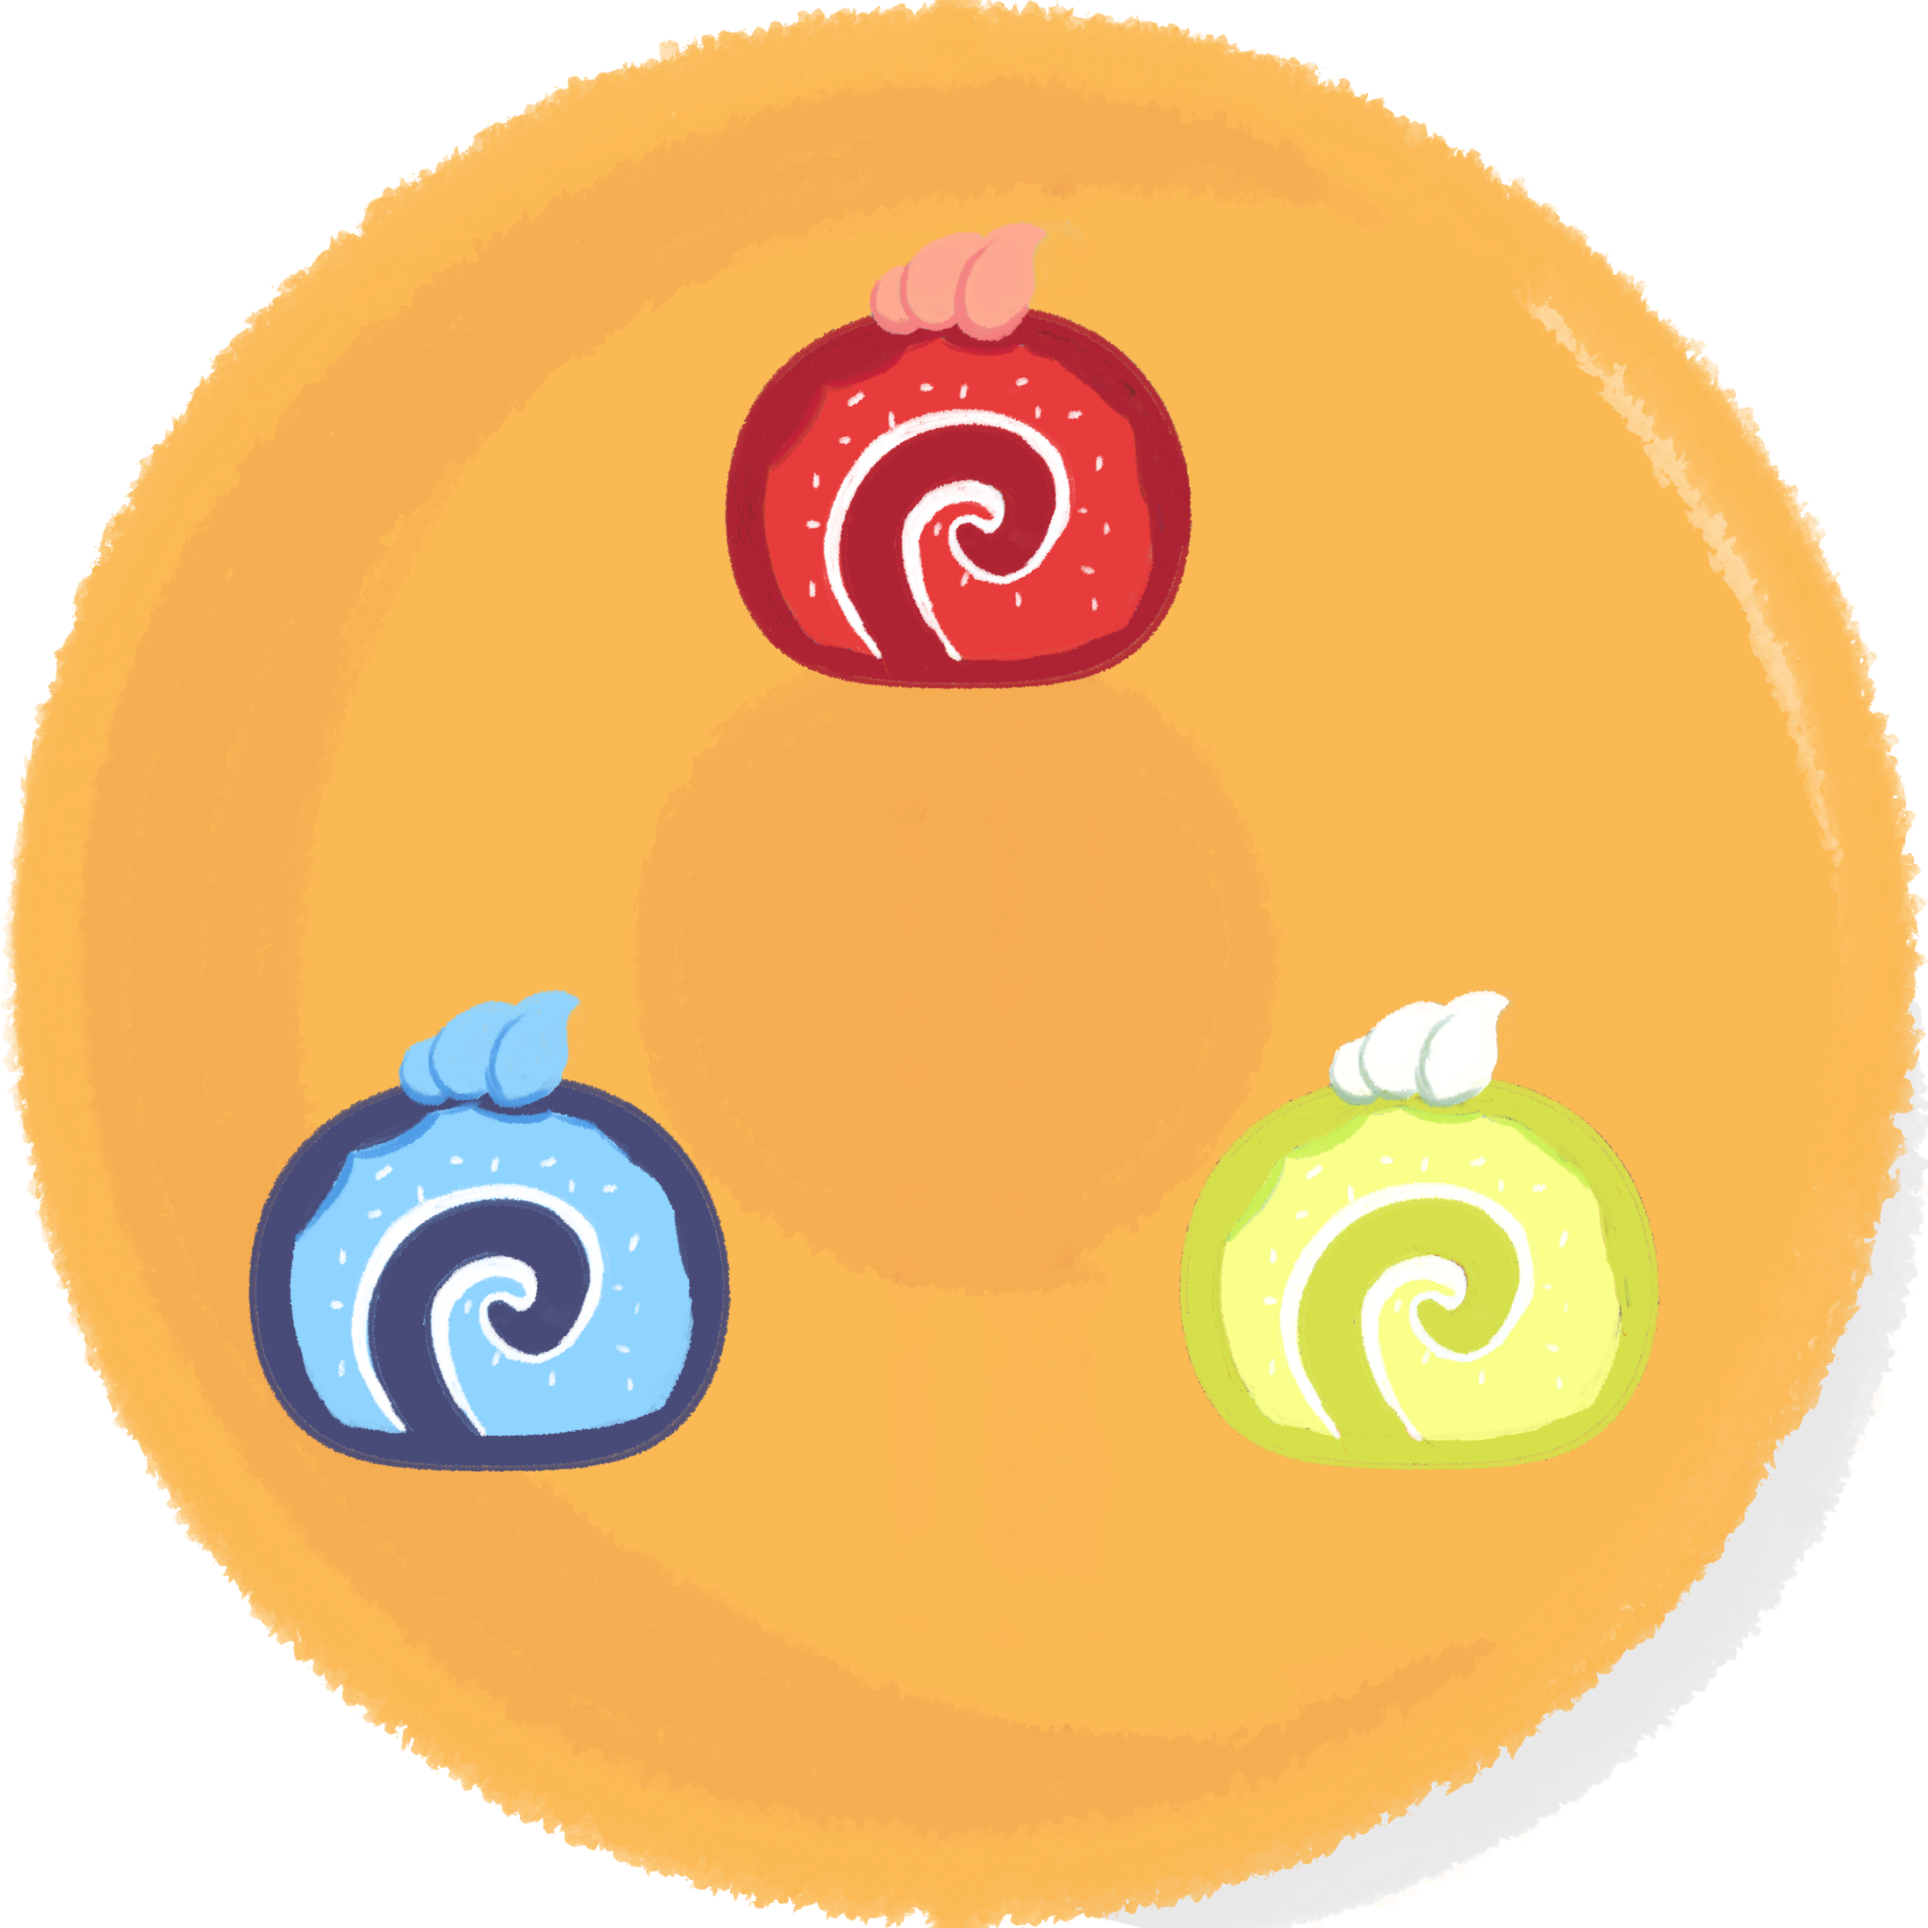
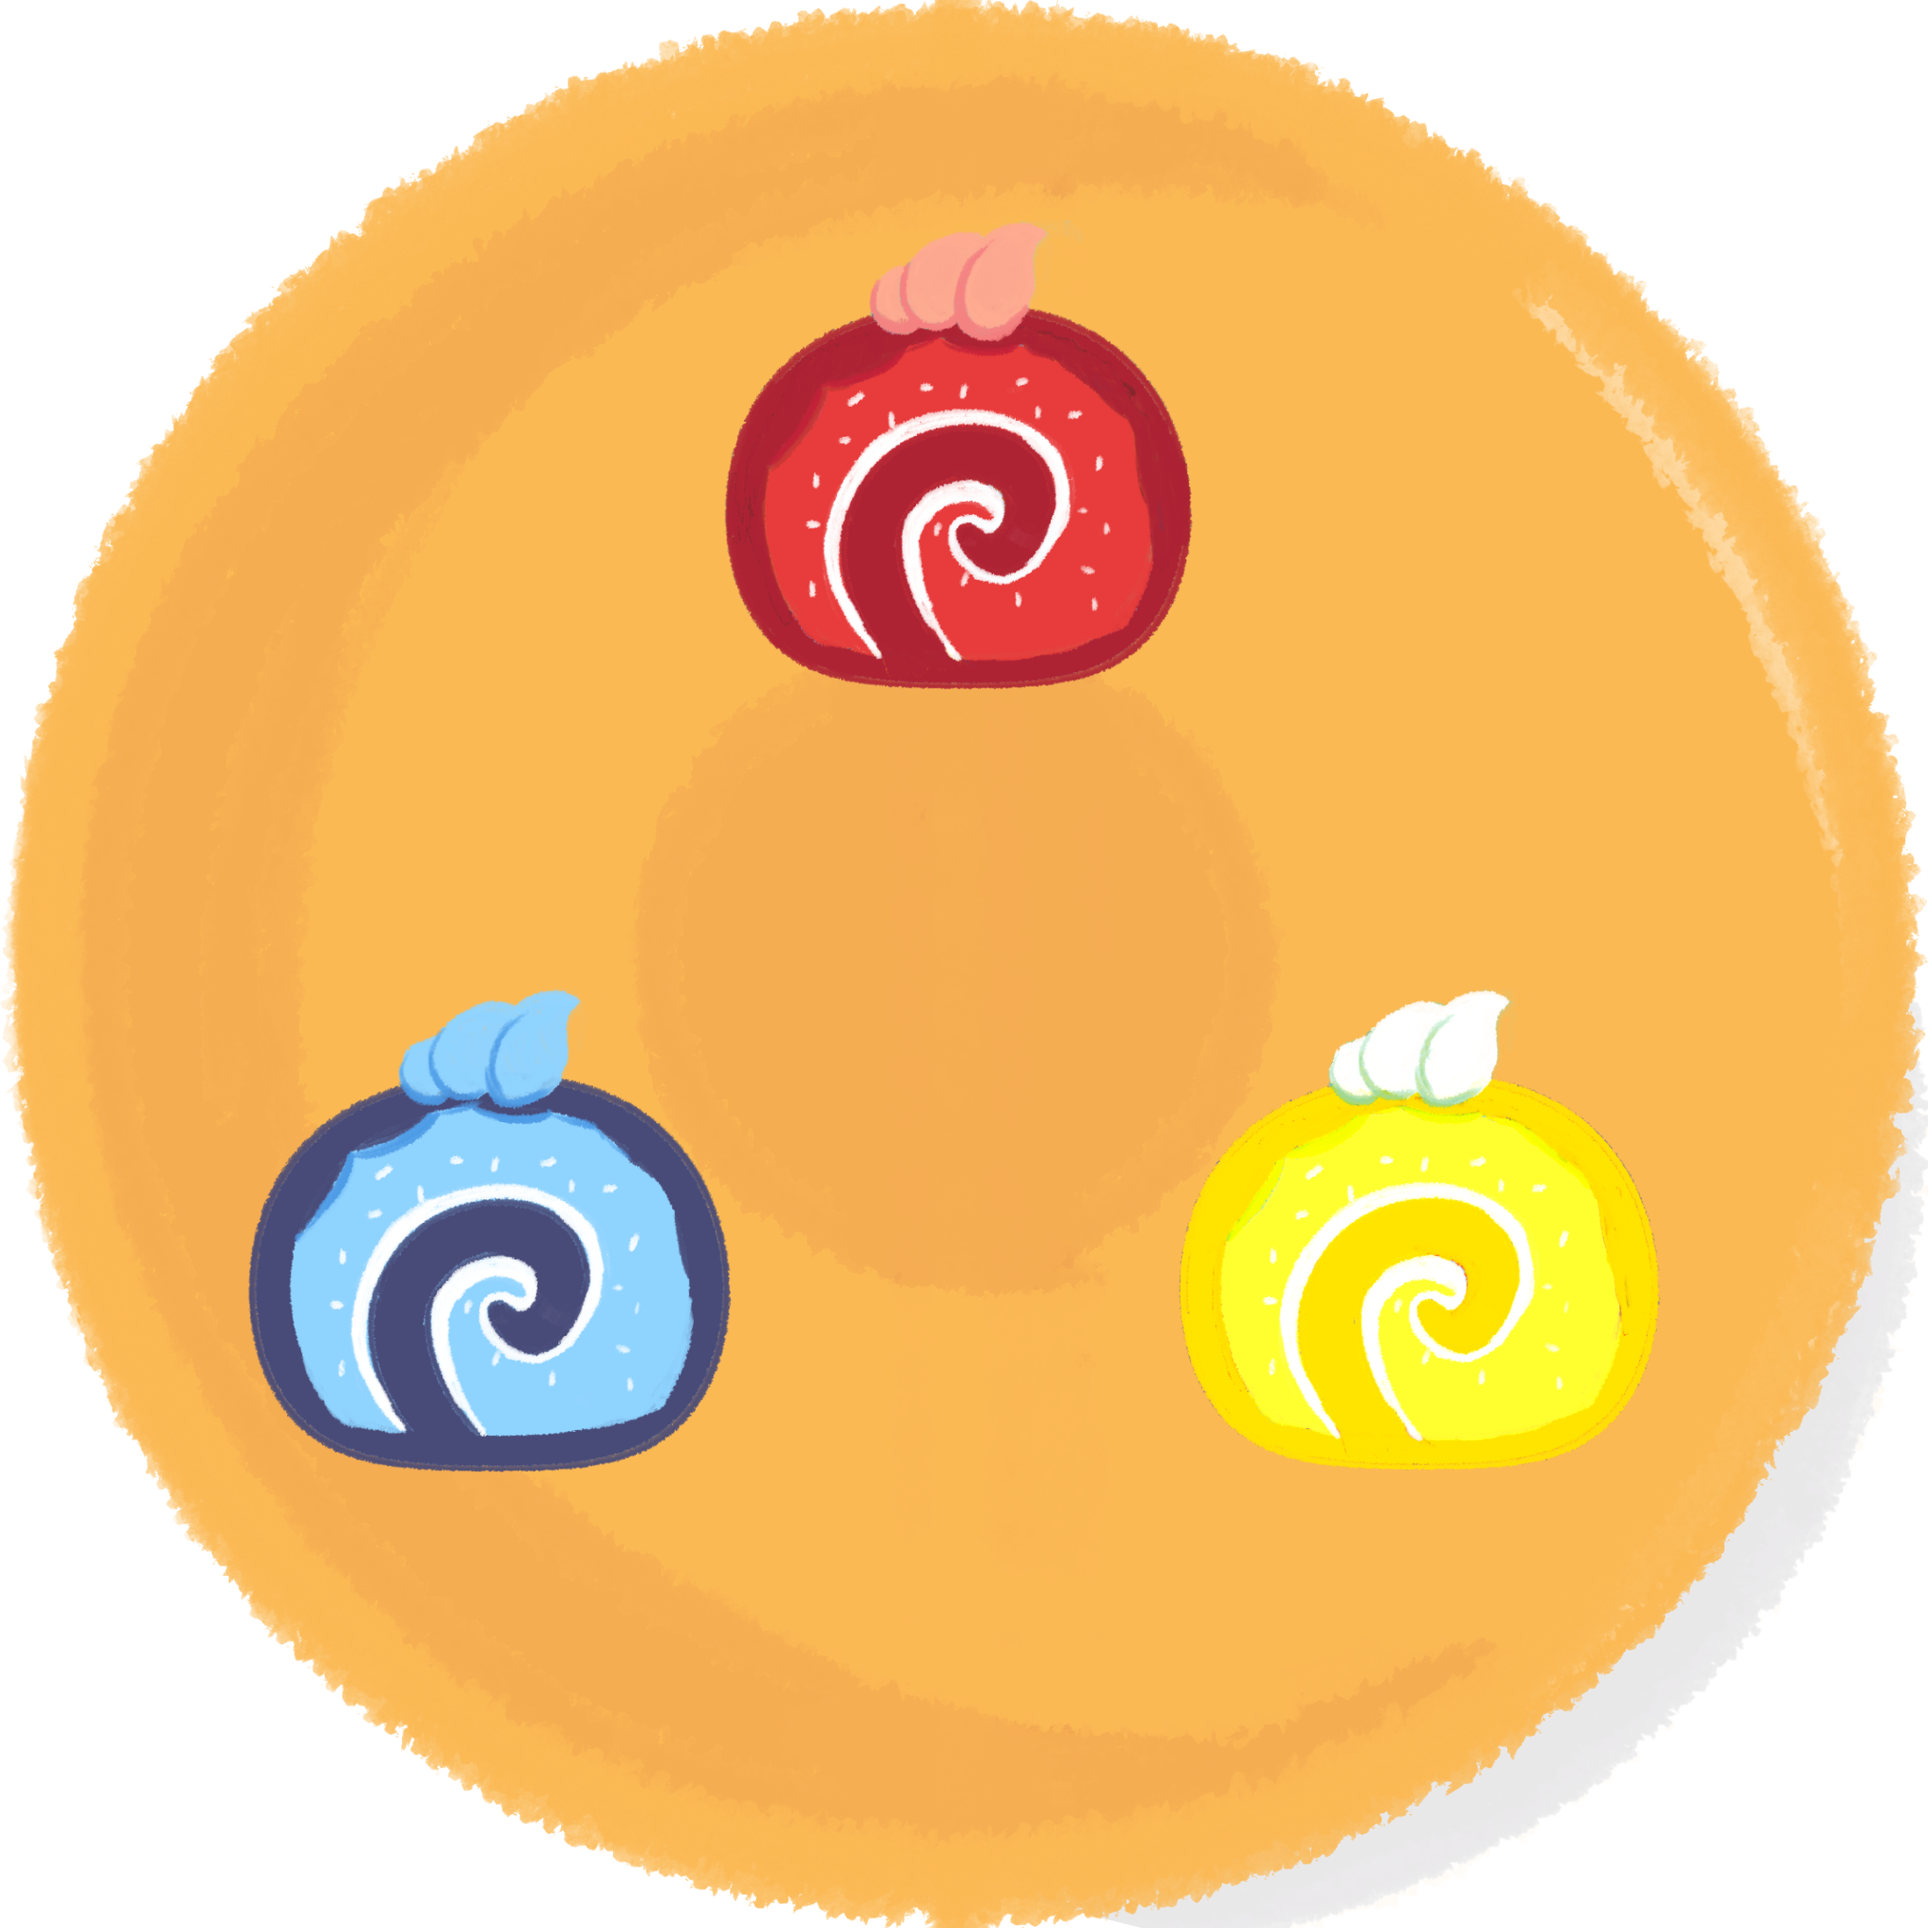
Update assets

Changed region(s): [[0.5938, 0.5625, 0.875, 0.7812]]

diff --git a/revival_realm/lib/levels/level_8.dart b/revival_realm/lib/levels/level_8.dart
@@ -71,23 +71,23 @@ class LevelEight extends StatelessWidget {
                               // color: Colors.black12,
                               child: LayoutBuilder(
                                 builder: (context, constraints) => Visibility(
-                                  visible: !levelState.checkDropped('mango'),
+                                  visible: !levelState.checkDropped('pear'),
                                   child: Draggable<String>(
-                                    data: 'mango',
+                                    data: 'pear',
                                     feedback: Container(
                                       width: constraints.maxWidth*0.6,
                                       child: Food(
-                                      name: 'mango',
+                                      name: 'pear',
                                       relativeWidth: 0.5,
                                       relativeHeight: 0.5,
-                                      sprite: Image.asset('assets/images/foods/Mango.gif')
+                                      sprite: Image.asset('assets/images/foods/Pear.gif')
                                     )),
                                     childWhenDragging: Container(),
                                     child: Food(
-                                      name: 'mango',
+                                      name: 'pear',
                                       relativeWidth: 0.5,
                                       relativeHeight: 0.5,
-                                      sprite: Image.asset('assets/images/foods/Mango.gif')
+                                      sprite: Image.asset('assets/images/foods/Pear.gif')
                                     ),
                                   ),
                                 ),
@@ -289,16 +289,16 @@ class LevelEight extends StatelessWidget {
                                 debugPrint(levelState.progress.toString());
                                 return Container(
                                   // color: Colors.blue,
-                                  child: Image.asset(levelState.checkDropped('watermelon')
-                                    ? 'assets/images/foods/Watermelon.gif'
+                                  child: Image.asset(levelState.checkDropped('apple')
+                                    ? 'assets/images/foods/Apple.gif'
                                     : 'assets/images/foods/transparent_square.png')
                                 );
                               },
                               onWillAccept: (data) {
-                                return data == 'watermelon';
+                                return data == 'apple';
                               },
                               onAccept: (data) {
-                                levelState.setProgress('watermelon');
+                                levelState.setProgress('apple');
                                 levelState.evaluate();
                                 debugPrint(levelState.progress.toString());
                               },
@@ -319,16 +319,16 @@ class LevelEight extends StatelessWidget {
                                 debugPrint(levelState.progress.toString());
                                 return Container(
                                   // color: Colors.blue,
-                                  child: Image.asset(levelState.checkDropped('mango')
-                                    ? 'assets/images/foods/Mango.gif'
+                                  child: Image.asset(levelState.checkDropped('pear')
+                                    ? 'assets/images/foods/Pear.gif'
                                     : 'assets/images/foods/transparent_square.png')
                                 );
                               },
                               onWillAccept: (data) {
-                                return data == 'mango';
+                                return data == 'pear';
                               },
                               onAccept: (data) {
-                                levelState.setProgress('mango');
+                                levelState.setProgress('pear');
                                 levelState.evaluate();
                                 debugPrint(levelState.progress.toString());
                               },
@@ -355,23 +355,23 @@ class LevelEight extends StatelessWidget {
                               // color: Colors.black12,
                               child: LayoutBuilder(
                                 builder: (context, constraints) => Visibility(
-                                  visible: !levelState.checkDropped('watermelon'),
+                                  visible: !levelState.checkDropped('apple'),
                                   child: Draggable<String>(
-                                    data: 'watermelon',
+                                    data: 'apple',
                                     feedback: Container(
                                       width: constraints.maxWidth*0.7,
                                       child: Food(
-                                      name: 'watermelon',
+                                      name: 'apple',
                                       relativeWidth: 0.5,
                                       relativeHeight: 0.5,
-                                      sprite: Image.asset('assets/images/foods/Watermelon.gif')
+                                      sprite: Image.asset('assets/images/foods/Apple.gif')
                                     )),
                                     childWhenDragging: Container(),
                                     child: Food(
-                                      name: 'watermelon',
+                                      name: 'apple',
                                       relativeWidth: 0.5,
                                       relativeHeight: 0.5,
-                                      sprite: Image.asset('assets/images/foods/Watermelon.gif')
+                                      sprite: Image.asset('assets/images/foods/Apple.gif')
                                     ),
                                   ),
                                 ),

diff --git a/revival_realm/lib/level_selection/levels.dart b/revival_realm/lib/level_selection/levels.dart
@@ -52,7 +52,7 @@ const gameLevels = <GameLevel>[
     id: 8,
     // nRows: 4,
     // nCols: 5,
-    foods: ['strawberry', 'watermelon', 'grape', 'mango', 'blueberry', 'blackcurrent'],
+    foods: ['strawberry', 'apple', 'grape', 'pear', 'blueberry', 'blackcurrent'],
     difficulty: 0,
   ),
 ];
